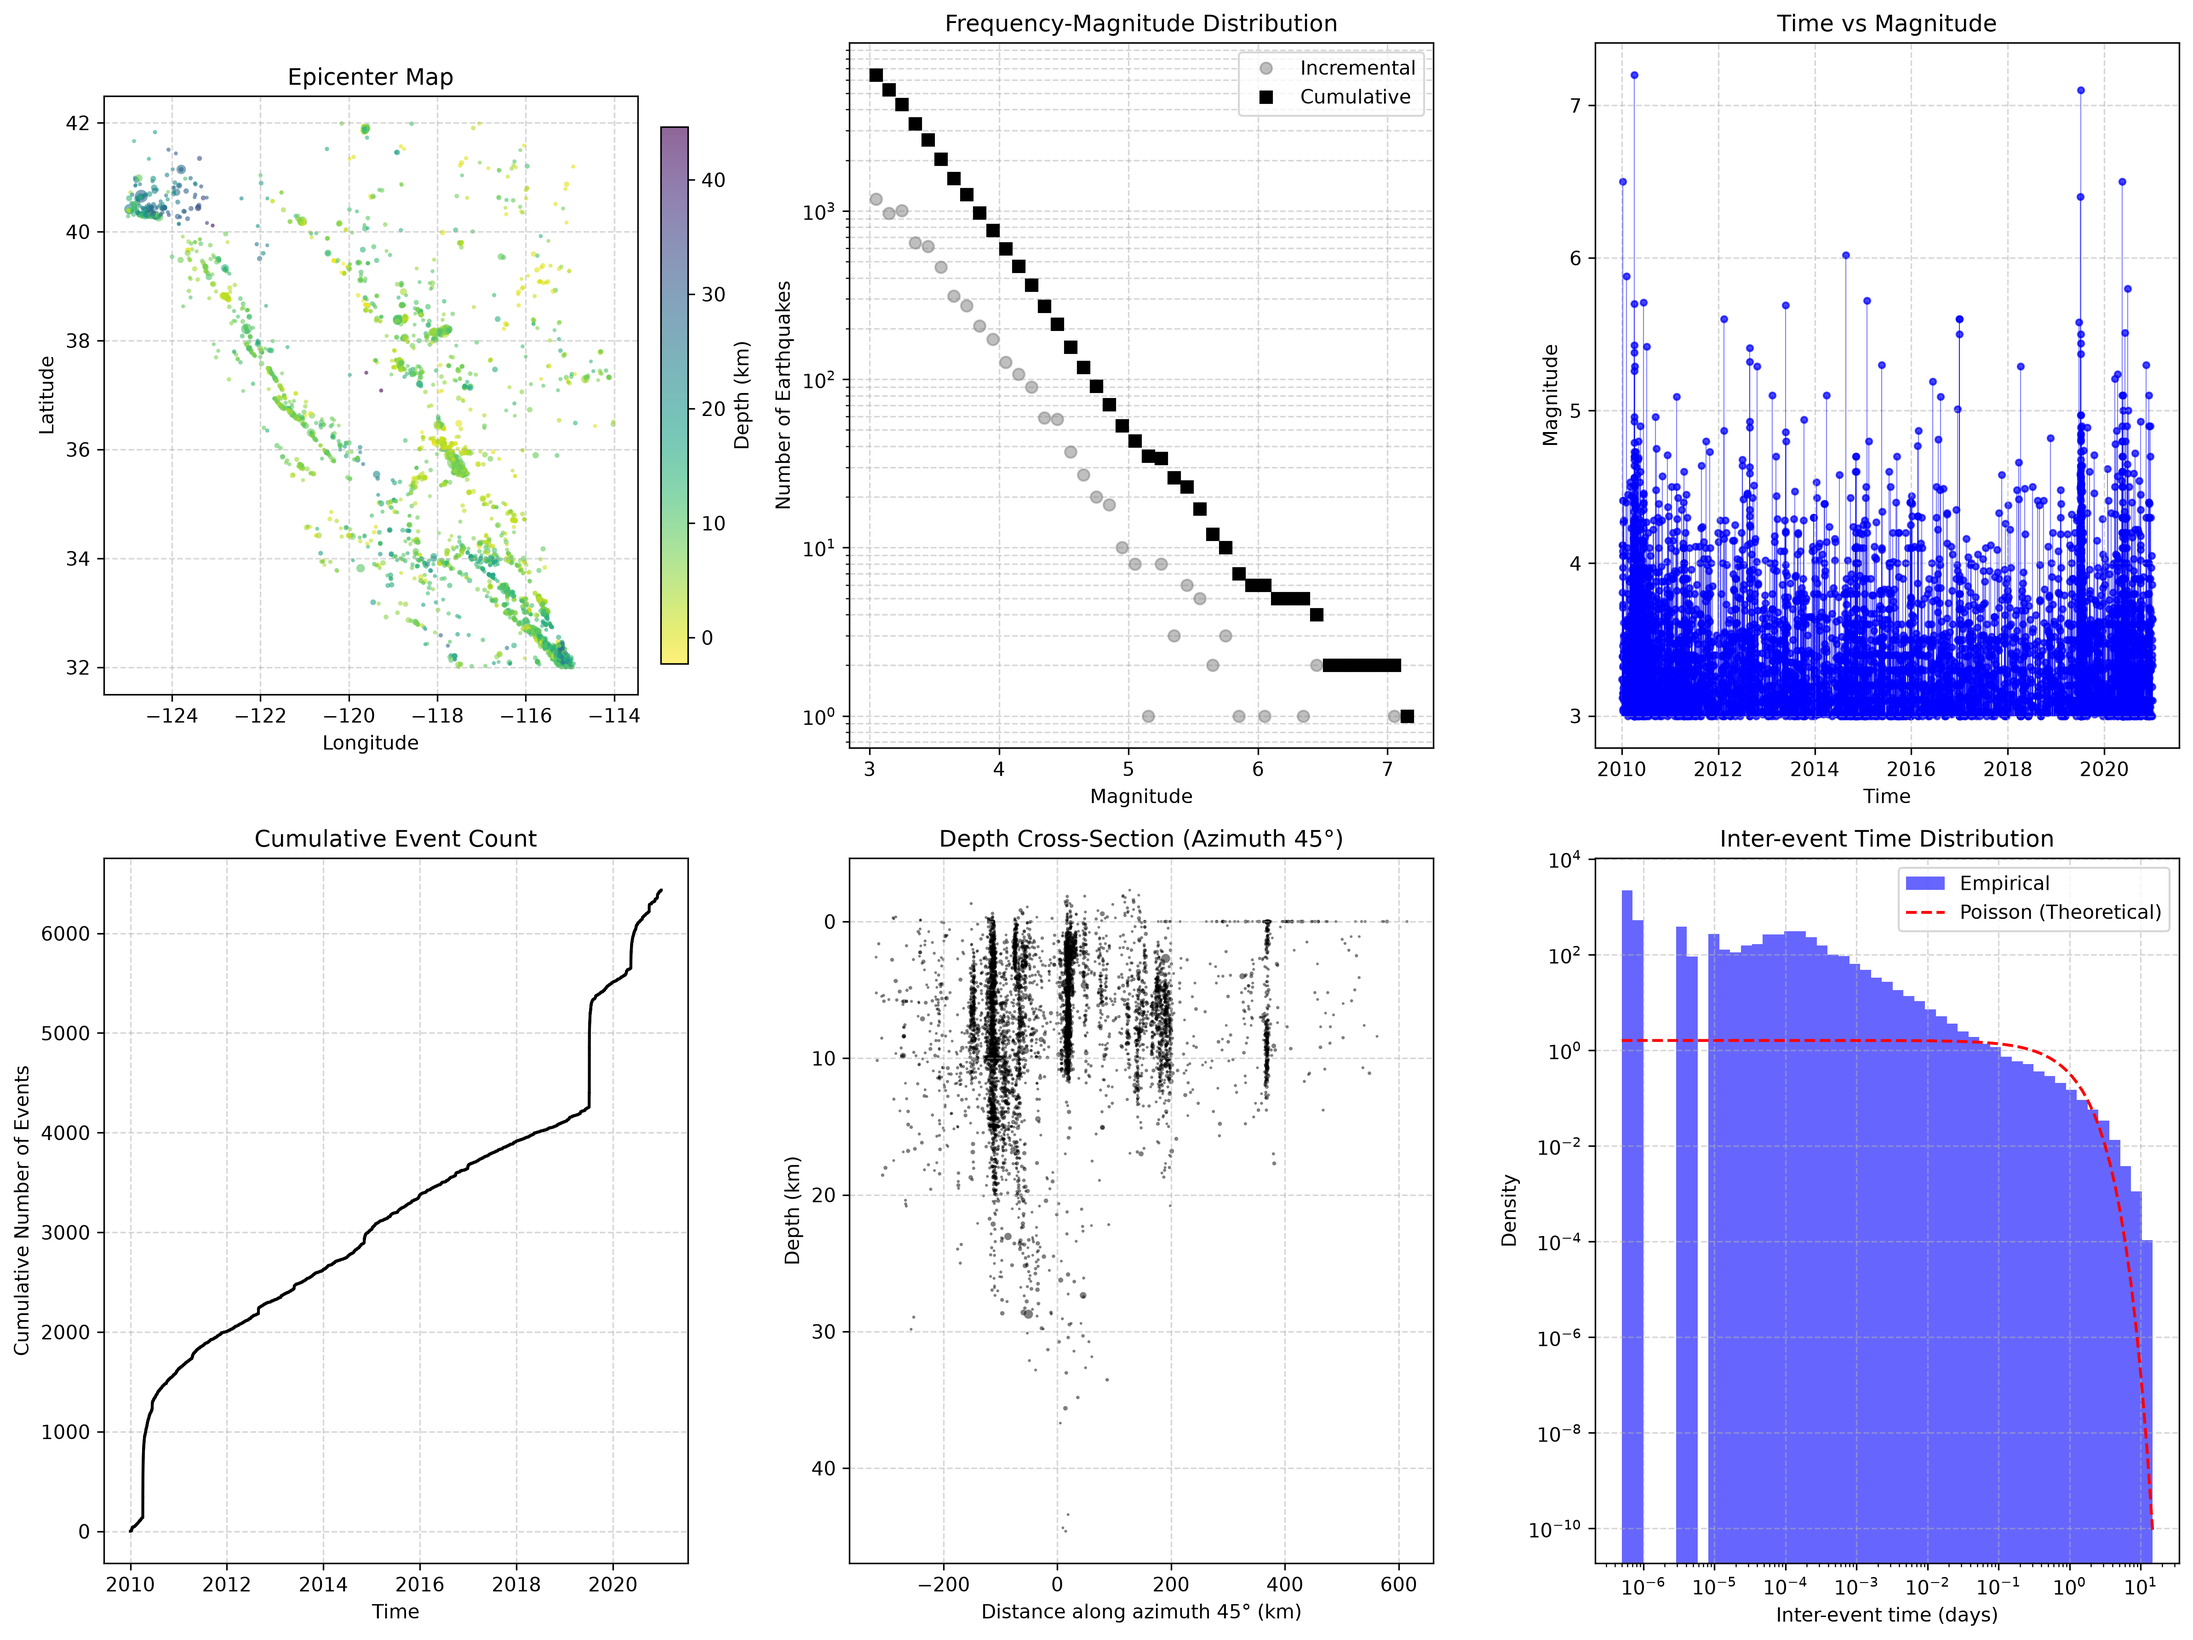
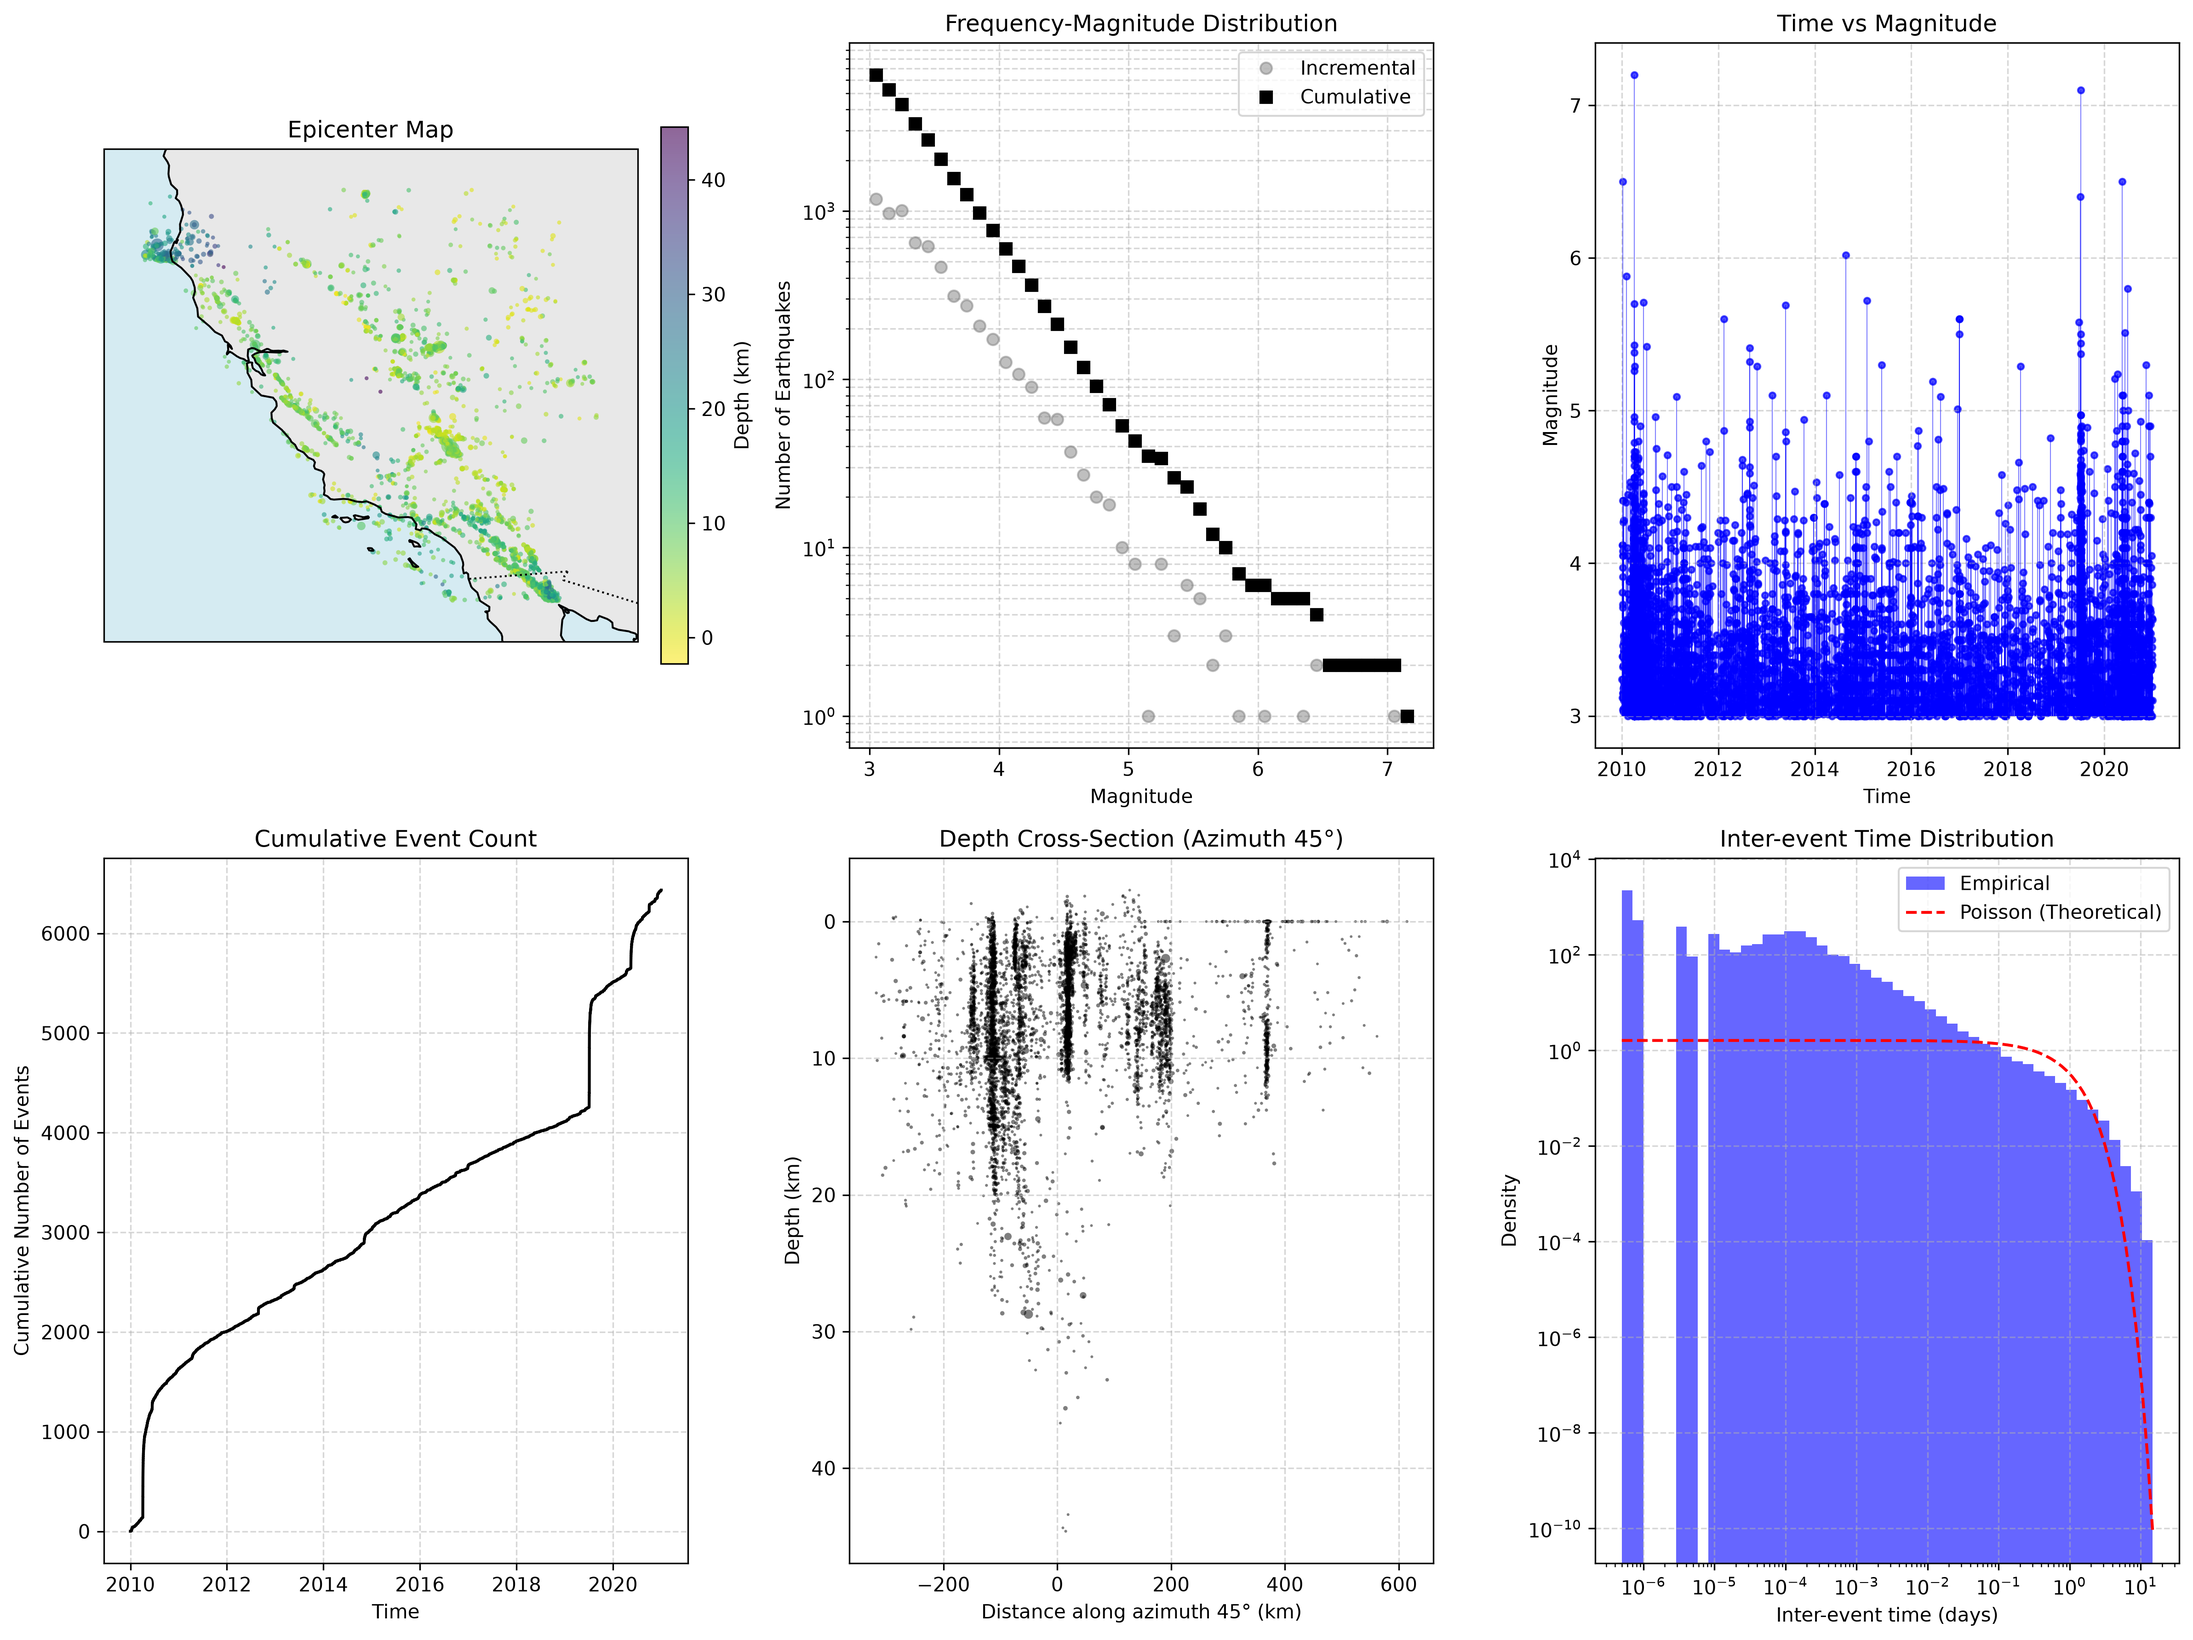
Fix Cartopy default map and FMD a-value annotation

Changed region(s): [[0.0312, 0.0622, 0.2812, 0.4355], [0.125, 0.0311, 0.2187, 0.0933], [0.1562, 0.4355, 0.1875, 0.4666]]

diff --git a/etas/viz/maps.py b/etas/viz/maps.py
@@ -1,14 +1,17 @@
 import matplotlib.pyplot as plt
+import cartopy.crs as ccrs
+import cartopy.feature as cfeature
 from etas.catalog.model import Catalog
 
 def plot_epicenter_map(catalog: Catalog, ax=None):
     """
     Plots an epicenter map with marker size proportional to magnitude 
     and color based on depth.
-    Cites: theme-3 (EDA).
+    Cites: theme-3 (EDA). Uses cartopy as default.
     """
     if ax is None:
-        fig, ax = plt.subplots(figsize=(8, 8))
+        fig = plt.figure(figsize=(8, 8))
+        ax = plt.axes(projection=ccrs.PlateCarree())
 
     if catalog.df.empty:
         return ax
@@ -17,6 +20,22 @@ def plot_epicenter_map(catalog: Catalog, ax=None):
     if df.empty:
         return ax
 
+    # Add map features if it's a cartopy axes
+    if hasattr(ax, 'coastlines'):
+        ax.add_feature(cfeature.LAND, facecolor='lightgray', alpha=0.5)
+        ax.add_feature(cfeature.OCEAN, facecolor='lightblue', alpha=0.5)
+        ax.add_feature(cfeature.BORDERS, linestyle=':')
+        ax.coastlines(resolution='50m')
+        
+        # Set extent with some padding
+        padding = 1.0
+        ax.set_extent([
+            df["longitude"].min() - padding,
+            df["longitude"].max() + padding,
+            df["latitude"].min() - padding,
+            df["latitude"].max() + padding
+        ], crs=ccrs.PlateCarree())
+
     # Size proportional to magnitude (exponentially scaled for visibility)
     mag = df["magnitude"].fillna(2.0)
     sizes = 2 ** (mag - mag.min() + 1) * 2
@@ -24,20 +43,24 @@ def plot_epicenter_map(catalog: Catalog, ax=None):
     # Color by depth
     depths = df["depth"].fillna(0)
 
+    # Note: transform=ccrs.PlateCarree() is required if using cartopy axes
+    transform_kwargs = {'transform': ccrs.PlateCarree()} if hasattr(ax, 'coastlines') else {}
+
     scatter = ax.scatter(
         df["longitude"], df["latitude"], 
-        s=sizes, c=depths, cmap='viridis_r', alpha=0.6, edgecolors='none'
+        s=sizes, c=depths, cmap='viridis_r', alpha=0.6, edgecolors='none',
+        **transform_kwargs
     )
 
     cbar = plt.colorbar(scatter, ax=ax, fraction=0.046, pad=0.04)
     cbar.set_label('Depth (km)')
 
-    ax.set_xlabel('Longitude')
-    ax.set_ylabel('Latitude')
-    ax.set_title('Epicenter Map')
-    ax.grid(True, linestyle="--", alpha=0.5)
-    
-    # Aspect ratio for maps (approximate local projection)
-    ax.set_aspect(1.0 / plt.np.cos(plt.np.radians(df["latitude"].mean())))
+    if not hasattr(ax, 'coastlines'):
+        ax.set_xlabel('Longitude')
+        ax.set_ylabel('Latitude')
+        # Aspect ratio for non-cartopy fallback
+        ax.set_aspect(1.0 / plt.np.cos(plt.np.radians(df["latitude"].mean())))
 
+    ax.set_title('Epicenter Map')
+    
     return ax

diff --git a/etas/viz/eda.py b/etas/viz/eda.py
@@ -15,8 +15,12 @@ def plot_eda(catalog: Catalog, save_path: str = None):
     """
     fig = plt.figure(figsize=(16, 12))
     
-    # 2 rows, 3 cols
-    ax_map = plt.subplot(2, 3, 1)
+    try:
+        import cartopy.crs as ccrs
+        ax_map = plt.subplot(2, 3, 1, projection=ccrs.PlateCarree())
+    except ImportError:
+        ax_map = plt.subplot(2, 3, 1)
+        
     plot_epicenter_map(catalog, ax=ax_map)
     
     ax_fmd = plt.subplot(2, 3, 2)

diff --git a/etas/viz/fmd.py b/etas/viz/fmd.py
@@ -45,7 +45,7 @@ def plot_fmd(catalog: Catalog, ax=None, mc=None, b_value=None, a_value=None):
         fit_logN = a_value - b_value * fit_mags
         fit_N = 10**fit_logN
         
-        ax.plot(fit_mags, fit_N, 'r-', label=f'b-value = {b_value:.2f}')
+        ax.plot(fit_mags, fit_N, 'r-', label=f'b={b_value:.2f}, a={a_value:.2f}')
 
     ax.set_yscale('log')
     ax.set_xlabel('Magnitude')
